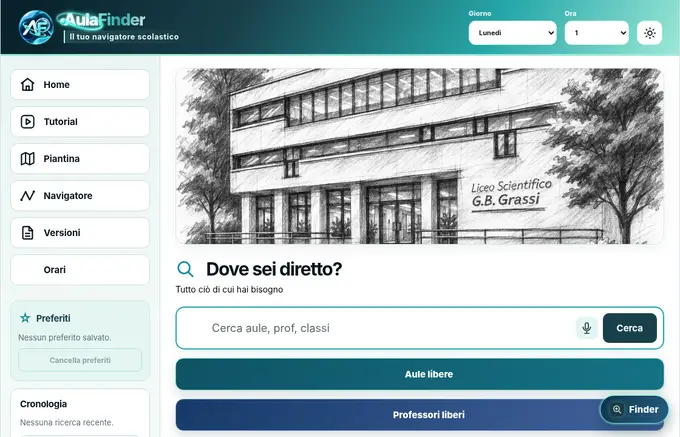
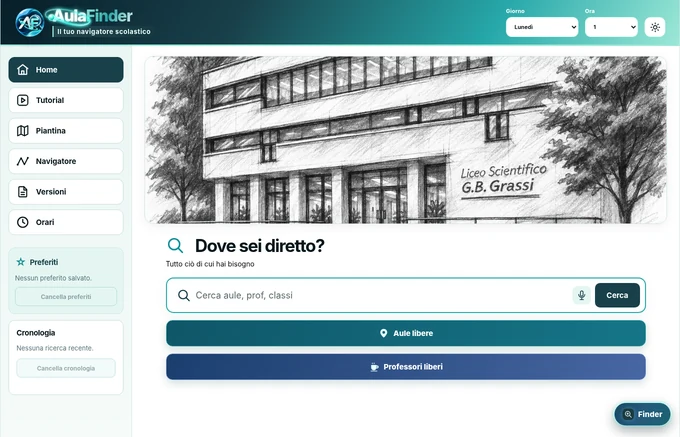
Add files via upload

diff --git a/README.md b/README.md
@@ -1,45 +1,43 @@
 # AulaFinder · Il tuo navigatore scolastico
 
-**Versione attuale: V49 · Il salto di qualità.**
+**Versione attuale: V50 · Orizzonti nuovi (18 novembre 2026).**
 
-AulaFinder è una web app/PWA realizzata per il **Liceo Scientifico G.B. Grassi di Saronno**: ricerca di aule, classi e docenti, orari, piantine, navigazione tra i piani e assistenza Finder. I dati sugli orari sono quelli caricati nell'app, **non aggiornamenti in tempo reale**.
+AulaFinder è la web app/PWA del progetto scolastico per il **Liceo Scientifico G.B. Grassi di Saronno**. Il pacchetto V50 parte dalla V49 originale, senza sostituire i dati degli orari o i cinque SVG delle piantine.
 
 ## Cosa puoi fare
 
-- Cercare aule, classi e sigle dei docenti con suggerimenti, cronologia e preferiti.
-- Consultare orari settimanali, aule libere, professori senza lezione e ore buche.
-- Esplorare cinque piantine originali e, su smartphone, aprirle a schermo intero, con un visualizzatore che si adatta anche al formato orizzontale.
-- Usare il Navigatore tra gli ambienti, inclusi Archivio, Caldaie e Palestra, con scale/ascensore e passaggi tra piani quando esiste un percorso verificabile sulla geometria della mappa.
-- Chiedere a Finder suggerimenti in linguaggio naturale: aiuto con lo zaino, le materie, le prossime lezioni e l'uso del sito. **Finder è un assistente locale basato su regole e orari, non un modello AI generativo né un servizio Internet.**
-- Usare il **Tutorial autonomo** in sette tappe, con esempi interattivi e copie autentiche delle piantine.
-- Consultare tutte le **49 versioni** e aprire le anteprime delle Home ricavate dagli archivi storici, dalla V1 alla V49.
-- Alternare tema chiaro/scuro e installare la PWA dove supportata dal browser.
+- Cercare aule, classi e docenti per sigla, conservando suggerimenti, preferiti e cronologia.
+- Consultare orari da lunedì a venerdì, aule senza lezione, ore buche e **numero di ore di lezione previste a settimana per docente**.
+- Consultare le cinque piantine; aprirle a schermo intero, ingrandirle e scorrere in orizzontale e verticale, quando la dimensione della mappa supera il display.
+- Usare il Navigatore per individuare un percorso schematico lungo i corridoi, inclusa la Palestra e i cambi di piano con scale/ascensore.
+- Fare domande a **Finder**, che risponde dagli orari locali senza usare un servizio AI remoto. Finder ha ora un lanciatore circolare animato e un nuovo effetto di ingresso/uscita; la lettura vocale dipende dal dispositivo.
+- Seguire il Tutorial autonomo in sette tappe, ora arricchito con suggerimenti contestuali.
+- Consultare l'archivio di **50 versioni** e aprire a schermo intero le anteprime delle Home con zoom.
+- Usare il tema automatico del sistema su mobile, con possibilità di modifica manuale.
 
-## Avvertenze e privacy
+## Note importanti
 
-- Le disponibilità delle aule e dei docenti derivano dall'orario caricato; sostituzioni e assenze non sono rilevate in tempo reale.
-- I docenti sono riportati tramite sigle/iniziali per tutela della privacy.
-- Il Navigatore è **schematico** e non va usato per evacuazioni o emergenze.
-- Il riconoscimento vocale funziona solo sui browser che espongono API compatibili e concedono accesso al microfono: alcuni browser possono richiedere servizi di trascrizione online o non consentire il riconoscimento. La chat testuale funziona senza microfono.
-- Per la lettura a voce alta Finder sceglie solo una **voce italiana locale del dispositivo**, se presente. Non è stata introdotta una voce proprietaria uniforme su tutti i telefoni.
-- Il breve suono di apertura viene tentato soltanto durante l'introduzione. I browser mobili possono bloccarlo per le regole sull'autoplay; il sito resta utilizzabile senza suono.
-- Su iOS e su alcuni browser il blocco della rotazione tramite API non è disponibile: il visualizzatore delle mappe ha un fallback CSS.
+- I dati sulle disponibilità derivano dagli **orari pubblicati**, non da presenze in tempo reale; le ore settimanali indicate sono ore di **lezione**, non ore lavorative complessive.
+- I percorsi sono schematici e non sostituiscono segnaletica, istruzioni di sicurezza o vie di evacuazione.
+- Il filmato di ingresso resta quello originale. I tre brevi effetti sonori sono nuovi e prodotti per V50; l'autoplay audio può essere vietato dal browser.
+- Microfono e lettura vocale dipendono dal browser e dalle voci disponibili. Non è garantita una voce identica su tutti i dispositivi.
+- Le immagini **V1–V48** sono gli scatti d'archivio ricevuti nella V49; la schermata **V49** è stata rigenerata dal codice V49 originale per correggere l'assenza del simbolo Orari nella precedente acquisizione. Le altre anteprime storiche non sono state inventate o ritoccate arbitrariamente.
 
 ## Pubblicare su GitHub Pages
 
-1. Estrai lo ZIP **AulaFinderV49.zip**. All'interno trovi la cartella **`V49/`**.
-2. Carica **il contenuto di `V49/`** nella cartella principale del repository, non la cartella `V49` intera, se il sito deve continuare a funzionare all'URL `/AulaFinder/`.
-3. Mantieni intatte le sottocartelle `assets/` e `icons/`, i file `.js`, `.css`, `manifest.webmanifest` e `sw.js`.
-4. Attiva GitHub Pages dalle impostazioni del repository e controlla la pubblicazione HTTPS. Il service worker utilizza la cache **`aulafinder-pwa-v49`**; dopo l'aggiornamento può servire un ricaricamento completo.
-5. Verifica su **Android e iPhone reali** il video, il microfono, il visualizzatore fullscreen e l'uso della tastiera assistiva prima della consegna definitiva.
+1. Estrai **AulaFinderV50.zip**: contiene la cartella `V50/`.
+2. Se vuoi mantenere il sito all'URL `/AulaFinder/`, pubblica **il contenuto della cartella `V50/`** nella radice del repository, non la cartella stessa.
+3. Mantieni tutte le cartelle `assets/`, `icons/` e tutti i file `.js`, `.css`, `manifest.webmanifest` e `sw.js`.
+4. La cache PWA è ora `aulafinder-pwa-v50`. Dopo l'aggiornamento può essere necessario aggiornare la pagina o chiudere e riaprire la PWA.
+5. Prima di dichiarare il sito pronto in produzione, verifica su Android/iPhone reali audio, rotazione mappa, microfono e comportamento delle animazioni.
 
-## Documentazione nella release
+## Documentazione
 
-- `README_V49.md`: dettagli della V49.
-- `CHANGELOG.md`: registro storico aggiornato.
-- `STORICO_VERSIONI.md`: indice V1–V49 e fonte delle informazioni recuperate.
-- `VERIFICHE_V49.md`: controlli eseguiti, bug corretti e limiti dei test.
-- `ANALISI_V49.md`: problematiche, proposte di miglioramento e priorità consigliate.
-- `GITHUB_ABOUT.txt`: descrizione breve pronta per il campo About del repository.
+- `README_V50.md`: funzionalità e dettagli del rilascio.
+- `VERIFICHE_V50.md`: controlli eseguiti e loro limiti.
+- `CHECKLIST_V50.md`: richieste delle note e stato.
+- `STORICO_VERSIONI.md`: storia delle versioni e provenienza delle anteprime.
+- `CHANGELOG.md`: cronologia delle modifiche.
+- I file `README_V49.md`, `VERIFICHE_V49.md` e simili sono conservati come **documenti storici**.
 
-**Contatto del progetto:** [aulafinder@gmail.com](mailto:aulafinder@gmail.com).
+**Contatto:** aulafinder@gmail.com

diff --git a/README_V50.md b/README_V50.md
@@ -1,0 +1,51 @@
+# AulaFinder V50 · Orizzonti nuovi
+
+**Data di realizzazione:** 18 novembre 2026  
+**Base:** ZIP AulaFinderV49(1).zip fornito per questa revisione.  
+**Principio:** modifiche additive alla V49, dati scolastici e geometria degli SVG preservati.
+
+## Nuova esperienza visiva e audio
+
+- Tema mobile al primo avvio basato sulla preferenza chiaro/scuro del dispositivo. La scelta manuale mobile è distinta dalla preferenza desktop.
+- Intro con transizione più dolce e fondo omogeneo. Rimane il filmato originale; il nuovo suono originale si tenta solo all'inizio del filmato, nei limiti imposti dall'autoplay.
+- Marchio AulaFinder con testo a gradiente animato. Header, logo nel menu laterale e footer animano il marchio senza cambiare pagina.
+- Ingrandimento del logo centrale tramite dialog: apertura dal logo e ritorno verso il logo, senza lasciare nascosta l'immagine.
+- Il footer conserva la selezione degli autori, senza applicare il lampeggio da pressione sui loro avatar.
+- Il sottomenu Orari mantiene l'indicatore visibile nel tema scuro mobile.
+- Navigazione tra sezioni corretta per evitare scroll automatici invasivi che nascondevano l'header.
+
+## Finder
+
+- Lanciatore con il solo simbolo luminoso e animazione permanente, anche quando la finestra è chiusa.
+- Eliminato il comando «Riduci a icona» ridondante. Resta il pulsante per espandere la finestra.
+- Apertura che cresce dal lanciatore; chiusura che torna verso il lanciatore. Posizione e trascinamento restano disponibili.
+- Effetto audio originale per la domanda e risposta, attivato dal gesto di invio (il browser potrebbe bloccarlo se non lo riconosce come gesto utente).
+- Nuovo tipo di risposta sulla somma delle ore di lezione previste a settimana per un docente indicato per sigla.
+
+## Orari, Home, Tutorial
+
+- Nella scheda docente e nei risultati di ricerca è visibile il totale delle ore di lezione previste dal lunedì al venerdì.
+- Le scorciatoie Home «Aule libere» e «Professori liberi» mostrano il conteggio contestuale per giorno e ora selezionati.
+- I sette passi del Tutorial originale sono integrati da spiegazioni precise direttamente dentro ciascuno step, senza portare il visitatore a un'altra sezione.
+- Link FAQ migliorato in chiaro e scuro.
+
+## Mappe e Navigatore
+
+- Mappe fullscreen: l'ingrandimento modifica le dimensioni reali del contenitore SVG e permette lo scorrimento dei due assi quando necessario, invece di usare soltanto una trasformazione grafica.
+- Trascinamento con mouse o touch, controlli +/− e Ctrl+rotella.
+- Percorso continuo che parte dal centro della stanza iniziale e termina nel centro della stanza finale, collegato al tracciato dei corridoi; marcatori della partenza e dell'arrivo centrati sulle stanze.
+- Trattamento dei corridoi migliorato per ridurre scorciatoie che attraversano altre stanze. Su mappe schematiche resta necessaria una verifica umana in caso di incongruenze geometriche.
+- Simboli della legenda allineati.
+
+## Versioni
+
+- V50 «Orizzonti nuovi» aggiunta all'archivio, portato a 50 voci, con nome e dettagli dell'aggiornamento.
+- Timeline e versione attuale con grafica aggiornata.
+- Anteprime apribili a schermo intero, ingrandibili con pulsanti e Ctrl+rotella.
+- Creata la vera schermata V50 e rigenerata la schermata V49 usando il **codice V49 originale**, che contiene il simbolo dell'orologio nella voce Orari.
+
+## File aggiunti/modificati
+
+`v50.css`, `v50-ui.js`, `script.js`, `finder.js`, `navigator.js`, `loading.js`, `v48-ui.js`, `v49-ui.js`, `versioni.js`, `versioni-data.json`, `index.html`, `sw.js`, nuovi `.wav` in `assets/`, `assets/versioni-home/V49.webp`, `assets/versioni-home/V50.webp`, documentazione.
+
+I quattro orari originali ricopiati nel file `data.js` non sono stati modificati.

diff --git a/ANALISI_V49.md b/ANALISI_V49.md
@@ -1,0 +1,24 @@
+# Analisi tecnica AulaFinder dopo la V49
+
+## Miglioramenti prioritari prima della consegna definitiva
+
+1. **Prova su telefoni reali (alta priorità).** Verificare Safari su iPhone e Chrome su Android, soprattutto fullscreen, rotazione, campo microfono, tastiera virtuale e orb/video. Le API e i codec disponibili non sono uguali su tutte le piattaforme.
+2. **Riconoscimento vocale offline (alta priorità per la funzione voce).** Web Speech non garantisce supporto locale né autorizzazioni su tutti i browser. Per un'esperienza identica servirebbe un modello di trascrizione distribuito con l'app, con trade-off importanti di peso, prestazioni e privacy; non è incluso nella V49.
+3. **Dati aggiornati (alta priorità).** L'orario è statico: inserire una data di revisione visibile e una procedura controllata di aggiornamento; in seguito valutare un'integrazione con fonti scolastiche autorizzate.
+4. **Accessibilità con utenti e tecnologie assistive (alta priorità).** Test reali con VoiceOver, TalkBack, NVDA, zoom testo 200/400%, navigazione solo tastiera, contrasto in tutte le condizioni e sensibilità al movimento. I test automatici non possono certificare usabilità per ogni disabilità.
+5. **Versioni storiche (media priorità).** Tenere gli screenshot pre-generati e aggiornare i testi del changelog da commit/tag reali quando il repository avrà una storia Git completa.
+6. **Durata del caricamento (media priorità).** Il video introduttivo è relativamente pesante per connessioni lente; monitorare tempi e frequenza degli errori e, se necessario, prevedere uno skip esplicito e progressivo.
+7. **Test del percorso per tutti gli ingressi (media priorità).** Validare i collegamenti Palestra e accessi scala/ascensore con sopralluogo e segnaletica reale; il percorso non sostituisce cartelli o procedure di sicurezza.
+8. **Prestazioni della PWA (media priorità).** Preferire cache aggiornabile e screenshot storici compressi; verificare rete mobile lenta, quota disco, aggiornamento del service worker e comportamento offline reale.
+
+## Funzioni da valutare per la V50
+
+- «Prepara lo zaino» con preferenze utente locali (es. materie/priorità della classe), senza raccogliere informazioni sensibili.
+- Modalità accessibilità avanzata con ingrandimento del testo e controllo di animazioni/effetti.
+- Ricerca nelle versioni anche per intervallo, categoria e data reale delle release, quando disponibili dati attendibili.
+- Controllo automatico dei dati/JSON orari in CI e suite Playwright eseguibile a ogni release.
+- «Segnala un errore dell'aula» con bozza email a `aulafinder@gmail.com`, senza inviare automaticamente dati personali.
+
+## Limiti non aggirati artificialmente
+
+L'audio all'apertura può essere impedito dal browser per policy autoplay. Nessuna voce TTS uniforme proprietaria e nessun riconoscimento offline universale sono stati introdotti. Le prove su screenshot e viewport virtuali non equivalgono a test su iPhone/Android reali né su assistive technology: queste parti vanno verificate prima della pubblicazione definitiva.

diff --git a/CHECKLIST_V50.md b/CHECKLIST_V50.md
@@ -1,0 +1,29 @@
+# Checklist V50 · Richieste dalle due pagine di appunti
+
+| Richiesta | Esito |
+| --- | --- |
+| Mobile: tema automatico da dispositivo | Implementato, prova salvataggio manuale su dispositivo ancora necessaria |
+| Entrata più fluida e sfondo coerente | Implementato, verifica video reale ancora necessaria |
+| Suono originale all'avvio | Implementato; limitazione browser autoplay |
+| Footer avatar senza lampeggio | Implementato, conservata animazione preesistente |
+| Versioni: anteprime Home fullscreen e zoom | Implementato |
+| Scroll dopo tap menu senza nascondere header | Implementato |
+| Finder tasto solo logo luminoso | Implementato |
+| Finder senza riduci a icona | Implementato |
+| Finder da lanciatore all'apertura e ritorno in chiusura | Implementato |
+| Suono alla richiesta Finder | Implementato; limitazione browser |
+| Nome e dettagli a ogni versione | 50 schede, inclusa V50 |
+| Orario: freccia visibile nel tema dark | Implementato |
+| Mappe: pan verticale e orizzontale con zoom | Implementato e testato in simulazione |
+| Cronologia delle vecchie Home: icona Orari | V49 rigenerata da file autentici, V50 nuova; V1–V48 mantenute fedeli alle immagini archiviate |
+| Navigatore: percorso in centro alle stanze | Implementato e testato su percorsi campione |
+| Tracciati della Palestra/corridoi | Algoritmo affinato e testato su campioni; verifiche in loco consigliate |
+| Simboli centrati in legenda | Implementato |
+| Tutorial: sviluppare tutti e sette i passi, coerente | Implementato |
+| Home ricerca rapida disponibilità | Conteggi contestuali aggiunti ai pulsanti |
+| Numero di ore settimanali del docente | Aggiunto nel risultato, scheda e Finder |
+| Logo AulaFinder header/footer/menu: solo animazione | Implementato e testato |
+| Logo ingrandito senza scomparsa | Implementato e testato in simulazione |
+| Gradiente animato sul marchio | Implementato |
+| FAQ: link email leggibile | Implementato |
+| Risoluzione di ogni bug e produzione garantita | Non certificabile senza prove su telefoni reali e verifica percorso fisico |

diff --git a/CHANGELOG.md b/CHANGELOG.md
@@ -1,5 +1,17 @@
 # Registro delle versioni di AulaFinder
 
+## V50 · Orizzonti nuovi (18 novembre 2026)
+
+- Mobile: tema automatico secondo il dispositivo con preferenza manuale indipendente; raccordo d'intro più uniforme.
+- Nuovi brevi effetti sonori originali per avvio, tap del logo e domande a Finder (nei limiti del browser).
+- Marchio sempre animato; click header, menu e footer senza navigazione; logo con ingresso/uscita morbidi.
+- Finder circolare animato, senza testo né «Riduci a icona», apertura e chiusura ancorate al lanciatore.
+- Contatori di disponibilità in Home; totale ore di lezione settimanali per docente.
+- Piantine fullscreen con zoom e pan effettivi; percorsi per le aule con marcatori centrati.
+- Versioni 1–50 con dettagli, nuova miniatura V50 e fullscreen preview; immagine V49 rigenerata dai sorgenti originali.
+- Sette passi tutorial arricchiti, correzioni di scroll e contrasto interfaccia.
+- Cache PWA incrementata a v50, verifiche dettagliate in `VERIFICHE_V50.md`.
+
 ## V49 · Il salto di qualità (18 novembre 2026)
 
 - **Tutorial autonomo:** tutte le sette tappe si provano senza lasciare il tutorial, con lezioni e piantine originali.

diff --git a/STORICO_VERSIONI.md b/STORICO_VERSIONI.md
@@ -1,8 +1,16 @@
-# AulaFinder · Storico verificato delle versioni V1–V49
+# AulaFinder · Storico verificato delle versioni V1–V50
 
 Le note sono ricostruite a partire dai file/rapporti originali contenuti negli archivi storici. L’anteprima della Home di ogni versione è consultabile nella pagina **Versioni** del sito.
 
-**Versione attuale: V49 · Il salto di qualità.**
+**Versione attuale: V50 · Orizzonti nuovi.**
+
+## V50 · Orizzonti nuovi
+
+- Tema dispositivo su mobile, animazioni del marchio, Finder rinnovato e suoni originali.
+- Piantine fullscreen scorrevoli, navigatore con ingresso/uscita dalle aule, ore settimanali per docenti.
+- Archivio aggiornato a 50 rilasci e anteprima Home V50.
+- **Fonte:** revisione V50 realizzata a partire dallo ZIP V49 fornito dall'utente, due pagine di appunti manoscritti e controlli tecnici indicati in `VERIFICHE_V50.md`.
+- **Anteprima Home:** `assets/versioni-home/V50.webp`.
 
 ## V49 · Il salto di qualità
 - Tutorial completamente autonomo: ricerca, orari, disponibilità, percorso, Finder e mappe interattivi all’interno della guida.
